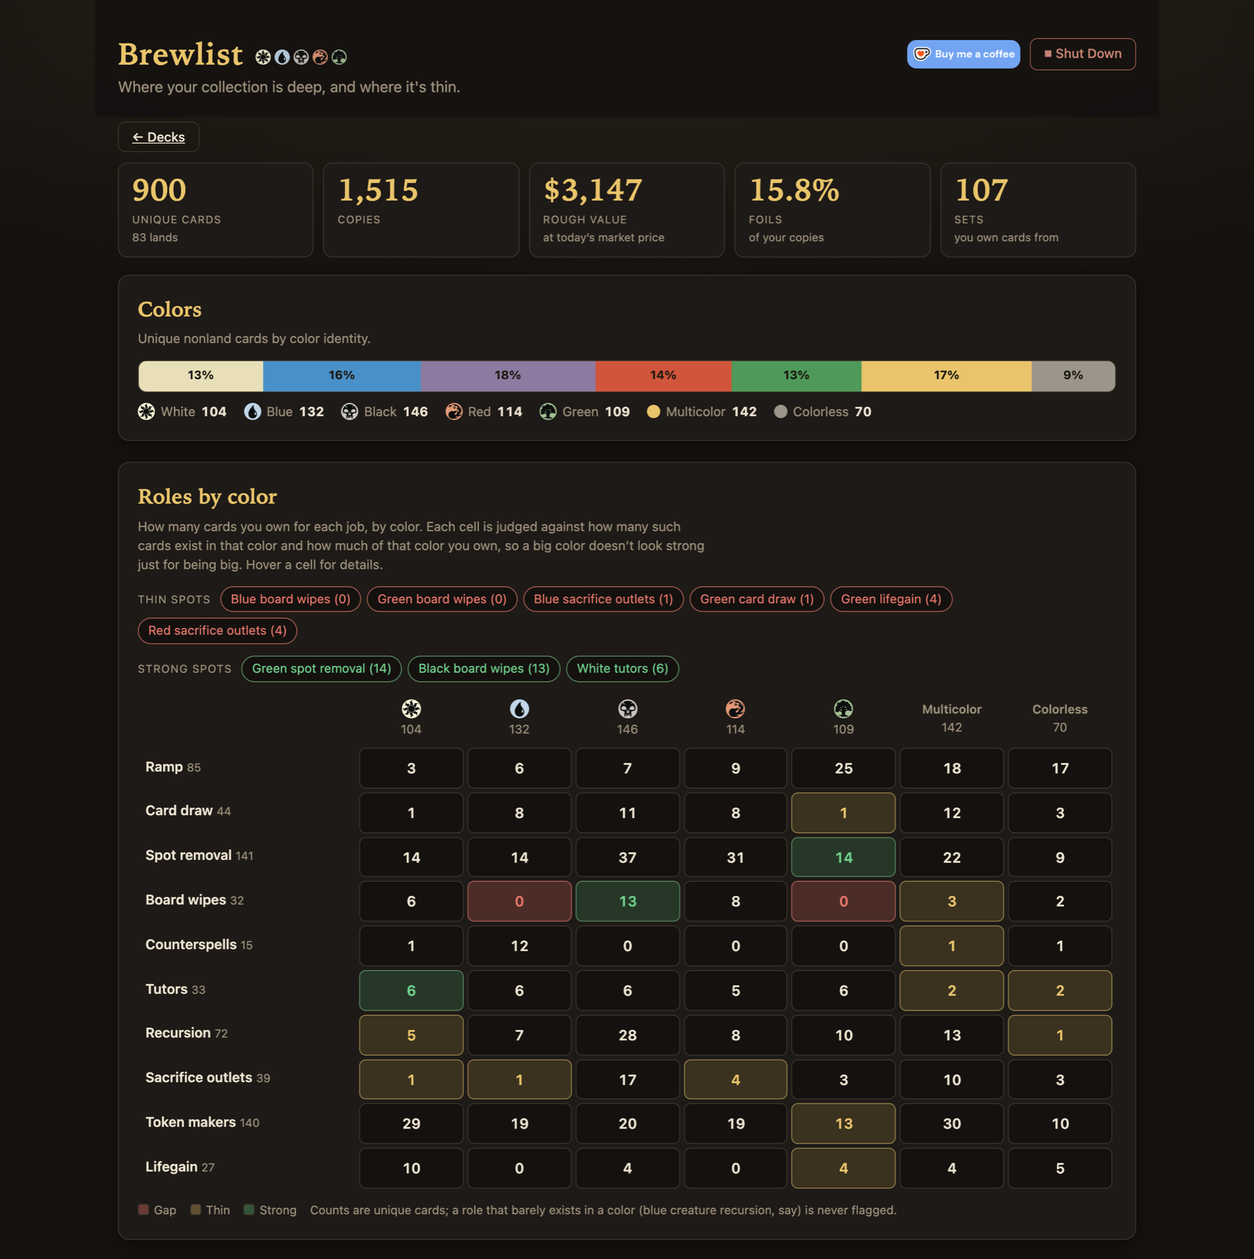
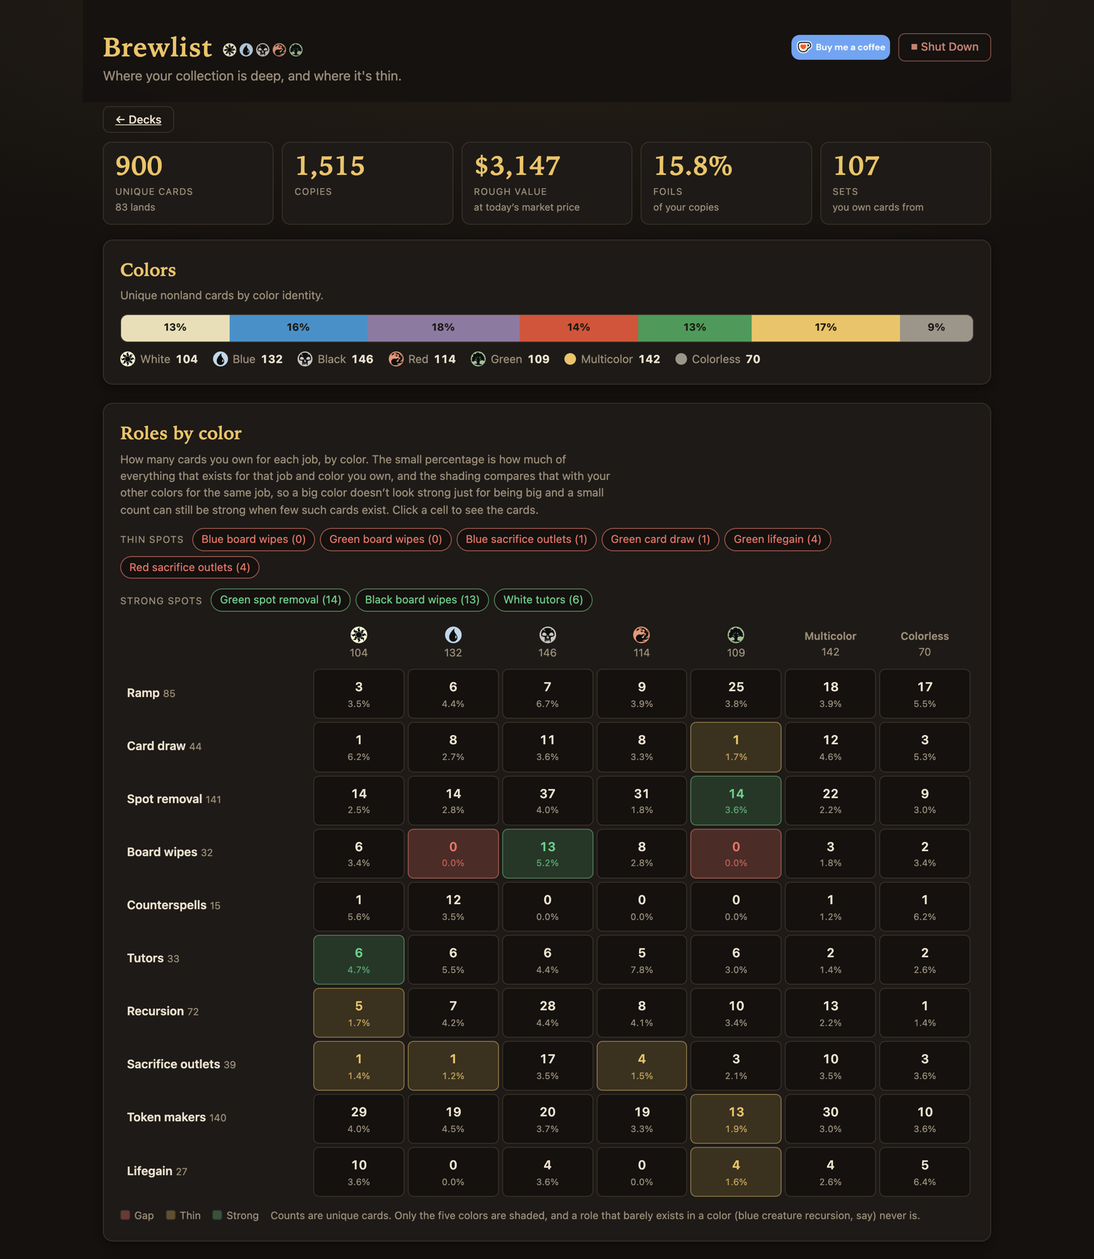
Collection insights: click any number to see the cards behind it; heatmap cells show the share owned, and only the five colors are shaded

diff --git a/collection_page.py b/collection_page.py
@@ -38,6 +38,8 @@ table.ins-grid { border-collapse: separate; border-spacing: 4px; width: 100%; mi
 .ins-grid td.gap { background: color-mix(in srgb, var(--missing) 26%, var(--bg)); border-color: color-mix(in srgb, var(--missing) 60%, var(--card-border)); color: var(--missing); }
 .ins-grid td.thin { background: color-mix(in srgb, var(--gold) 18%, var(--bg)); border-color: color-mix(in srgb, var(--gold) 50%, var(--card-border)); color: var(--gold); }
 .ins-grid td.deep { background: color-mix(in srgb, var(--owned) 20%, var(--bg)); border-color: color-mix(in srgb, var(--owned) 50%, var(--card-border)); color: var(--owned); }
+.ins-grid td .pc { font-weight: 400; font-size: 0.68rem; color: var(--text-dim); margin-top: 1px; }
+.ins-grid td.gap .pc, .ins-grid td.thin .pc, .ins-grid td.deep .pc { color: inherit; opacity: 0.75; }
 .ins-key { display: flex; gap: 14px; flex-wrap: wrap; margin-top: 10px; font-size: 0.78rem; color: var(--text-dim); }
 .ins-key i { display: inline-block; width: 12px; height: 12px; border-radius: 3px; margin-right: 5px; vertical-align: -1px; border: 1px solid var(--card-border); }
 .ins-theme { display: grid; grid-template-columns: minmax(150px, 230px) 1fr 150px; gap: 12px; align-items: center; padding: 7px 0; border-bottom: 1px solid var(--card-border); }
@@ -62,12 +64,44 @@ table.ins-grid { border-collapse: separate; border-spacing: 4px; width: 100%; mi
 .ins-curve .col b { color: var(--text); font-weight: 600; font-variant-numeric: tabular-nums; margin-bottom: 3px; }
 .ins-tribes { display: flex; flex-wrap: wrap; gap: 6px; margin-top: 4px; }
 .ins-note { color: var(--text-dim); font-size: 0.78rem; margin-top: 18px; max-width: 80ch; }
+[data-key] { cursor: pointer; }
+.ins-grid td[data-key]:hover, .ins-chip[data-key]:hover { border-color: var(--accent); filter: brightness(1.25); }
+.ins-theme[data-key]:hover .nm { color: var(--accent); }
+.ins-bars .row[data-key]:hover > span:first-child, .ins-curve .col[data-key]:hover { color: var(--accent); }
+.ins-colorbar > div[data-key]:hover, .ins-legend span[data-key]:hover { filter: brightness(1.15); }
+.ins-legend span[data-key]:hover { color: var(--accent); }
+.ins-modal { display: none; position: fixed; inset: 0; z-index: 300; background: rgba(8, 6, 4, 0.78); align-items: flex-start; justify-content: center; padding: 4vh 16px; overflow-y: auto; }
+.ins-modal.show { display: flex; }
+.ins-modal-panel { background: var(--bg-elevated); border: 1px solid var(--card-border); border-radius: 14px; width: min(1100px, 100%); box-shadow: var(--shadow); }
+.ins-modal-head { display: flex; align-items: center; gap: 12px; padding: 14px 18px; border-bottom: 1px solid var(--card-border); position: sticky; top: 0; background: var(--bg-elevated); border-radius: 14px 14px 0 0; z-index: 2; }
+.ins-modal-head h3 { font-family: var(--serif); font-weight: 600; font-size: 1.3rem; color: var(--accent); margin: 0; flex: 1; }
+.ins-modal-head .count { color: var(--text-dim); font-size: 0.85rem; white-space: nowrap; }
+.ins-modal-head input { width: 190px; margin: 0; padding: 6px 10px; }
+.ins-modal-close { background: none; border: none; color: var(--text-dim); font-size: 1.6rem; line-height: 1; cursor: pointer; }
+.ins-modal-close:hover { color: var(--accent); }
+.ins-cards { display: grid; grid-template-columns: repeat(auto-fill, minmax(150px, 1fr)); gap: 14px; padding: 16px 18px 20px; }
+.ins-card { position: relative; min-width: 0; }
+.ins-card img { width: 100%; aspect-ratio: 5 / 7; border-radius: 6.5%; background: var(--bg); display: block; box-shadow: 0 2px 10px rgba(0,0,0,0.5); }
+.ins-card .nm { font-size: 0.8rem; font-weight: 600; margin-top: 6px; line-height: 1.2; }
+.ins-card .ty { font-size: 0.7rem; color: var(--text-dim); line-height: 1.25; }
+.ins-card .qty { position: absolute; top: 6px; right: 6px; background: rgba(0,0,0,0.78); color: var(--accent); font-weight: 700; font-size: 0.75rem; padding: 1px 7px; border-radius: 999px; }
+.ins-empty { padding: 30px 18px; color: var(--text-dim); text-align: center; }
 @media (max-width: 800px) { .ins-two { grid-template-columns: 1fr; } .ins-theme { grid-template-columns: 1fr; gap: 4px; } .ins-pill { justify-self: start; } }
 """
 
 COLLECTION_BODY = """
   <div class="ins-back"><a href="/decks" class="btn ghost small">&larr; Decks</a></div>
   <div id="insights"><div class="ins-loading">Reading your collection&hellip;</div></div>
+  <div class="ins-modal" id="ins-modal" role="dialog" aria-modal="true" aria-label="Cards">
+    <div class="ins-modal-panel">
+      <div class="ins-modal-head">
+        <h3 id="ins-modal-title"></h3><span class="count" id="ins-modal-count"></span>
+        <input type="text" id="ins-modal-filter" placeholder="Filter these cards&hellip;" autocomplete="off">
+        <button type="button" class="ins-modal-close" id="ins-modal-close" aria-label="Close">&times;</button>
+      </div>
+      <div id="ins-modal-body"></div>
+    </div>
+  </div>
 """
 
 COLLECTION_SCRIPT = r"""
@@ -91,8 +125,8 @@ function snapshotHtml(s) {
 function colorsHtml(c) {
   const total = c.nonland_total || 1;
   const segs = c.columns.filter((x) => x.unique > 0).map((x) =>
-    '<div style="flex:' + x.unique + ';background:' + MANA_HEX[x.key] + ';" title="' + x.label + ': ' + fmt(x.unique) + '">' + (x.unique / total >= 0.06 ? Math.round(100 * x.unique / total) + '%' : '') + '</div>').join('');
-  const legend = c.columns.map((x) => '<span>' + (icon(x.key) || '<i style="display:inline-block;width:14px;height:14px;border-radius:50%;background:' + MANA_HEX[x.key] + ';"></i>') + x.label + ' <b>' + fmt(x.unique) + '</b></span>').join('');
+    '<div data-key="color:' + x.key + '" data-title="' + x.label + ' cards" style="flex:' + x.unique + ';background:' + MANA_HEX[x.key] + ';" title="' + x.label + ': ' + fmt(x.unique) + ' (click to see them)">' + (x.unique / total >= 0.06 ? Math.round(100 * x.unique / total) + '%' : '') + '</div>').join('');
+  const legend = c.columns.map((x) => '<span data-key="color:' + x.key + '" data-title="' + x.label + ' cards">' + (icon(x.key) || '<i style="display:inline-block;width:14px;height:14px;border-radius:50%;background:' + MANA_HEX[x.key] + ';"></i>') + x.label + ' <b>' + fmt(x.unique) + '</b></span>').join('');
   return '<div class="card ins-section"><h2>Colors</h2><p class="ins-sub">Unique nonland cards by color identity.</p><div class="ins-colorbar">' + segs + '</div><div class="ins-legend">' + legend + '</div></div>';
 }
 
@@ -112,21 +146,23 @@ function rolesHtml(r) {
     const cell = row.cells[c.key];
     const tip = colName[c.key] + ' ' + row.role.toLowerCase() + ': you own ' + cell.n + ' of ' + fmt(cell.pool) + ' Commander-legal cards'
       + (cell.index != null ? ' (' + cell.index.toFixed(2) + '× your usual share for this color)' : '') + (cell.names.length ? '. Most played: ' + cell.names.slice(0, 8).join(', ') : '');
-    return '<td class="' + (cell.flag || '') + '" title="' + esc(tip) + '">' + cell.n + '</td>';
+    const key = cell.n ? ' data-key="role:' + esc(row.role) + ':' + c.key + '" data-title="' + esc(colName[c.key] + ' ' + row.role.toLowerCase()) + '"' : '';
+    const pc = cell.pct == null ? '' : '<div class="pc">' + (cell.pct >= 10 ? Math.round(cell.pct) : cell.pct.toFixed(1)) + '%</div>';
+    return '<td class="' + (cell.flag || '') + '"' + key + ' title="' + esc(tip + (cell.n ? ' \u2014 click to see them' : '')) + '">' + cell.n + pc + '</td>';
   }).join('') + '</tr>').join('');
   return '<div class="card ins-section"><h2>Roles by color</h2>'
-    + '<p class="ins-sub">How many cards you own for each job, by color. Each cell is judged against how many such cards exist in that color and how much of that color you own, so a big color doesn’t look strong just for being big. Hover a cell for details.</p>'
+    + '<p class="ins-sub">How many cards you own for each job, by color. The small percentage is how much of everything that exists for that job and color you own, and the shading compares that with your other colors for the same job, so a big color doesn’t look strong just for being big and a small count can still be strong when few such cards exist. Click a cell to see the cards.</p>'
     + (thin.length ? '<div class="ins-chips"><span class="lbl">Thin spots</span>' + thin.map((f) => chip(f, 'bad')).join('') + '</div>' : '')
     + (deep.length ? '<div class="ins-chips"><span class="lbl">Strong spots</span>' + deep.map((f) => chip(f, 'good')).join('') + '</div>' : '')
     + '<div class="ins-table-wrap"><table class="ins-grid">' + head + body + '</table></div>'
-    + '<div class="ins-key"><span><i style="background:color-mix(in srgb, var(--missing) 40%, var(--bg));"></i>Gap</span><span><i style="background:color-mix(in srgb, var(--gold) 35%, var(--bg));"></i>Thin</span><span><i style="background:color-mix(in srgb, var(--owned) 35%, var(--bg));"></i>Strong</span><span>Counts are unique cards; a role that barely exists in a color (blue creature recursion, say) is never flagged.</span></div></div>';
+    + '<div class="ins-key"><span><i style="background:color-mix(in srgb, var(--missing) 40%, var(--bg));"></i>Gap</span><span><i style="background:color-mix(in srgb, var(--gold) 35%, var(--bg));"></i>Thin</span><span><i style="background:color-mix(in srgb, var(--owned) 35%, var(--bg));"></i>Strong</span><span>Counts are unique cards. Only the five colors are shaded, and a role that barely exists in a color (blue creature recursion, say) never is.</span></div></div>';
 }
 
 function themesHtml(themes) {
   const rows = themes.map((t) => {
     const pct = Math.min(100, (t.index / 2) * 100);
     const label = t.level === 'deep' ? 'Deep' : (t.level === 'thin' ? 'Thin' : 'Typical');
-    return '<div class="ins-theme ' + t.level + '" title="' + esc(t.examples.length ? 'Most played of yours: ' + t.examples.join(', ') : '') + '">'
+    return '<div class="ins-theme ' + t.level + '" data-key="theme:' + esc(t.name) + '" data-title="' + esc(t.name) + '" title="' + esc(t.examples.length ? 'Most played of yours: ' + t.examples.join(', ') : '') + '">'
       + '<div class="nm">' + esc(t.name) + '<small>' + fmt(t.owned) + ' of ' + fmt(t.pool) + ' (' + t.share + '%)</small></div>'
       + '<div class="ins-meter"><div class="fill" style="width:' + pct + '%;"></div><div class="mid" style="left:50%;" title="A typical theme for you"></div></div>'
       + '<div class="ins-pill">' + label + ' &middot; ' + t.index.toFixed(1) + '×</div></div>';
@@ -138,14 +174,57 @@ function themesHtml(themes) {
 
 function typesHtml(t) {
   const maxU = Math.max(...t.by_category.map((x) => x.unique), 1);
-  const cats = t.by_category.map((x) => '<div class="row"><span>' + esc(x.type) + '</span><div><div class="bar" style="width:' + (100 * x.unique / maxU) + '%;"></div></div><span class="num">' + fmt(x.unique) + '</span></div>').join('');
+  const cats = t.by_category.map((x) => '<div class="row" data-key="type:' + esc(x.type) + '" data-title="' + esc(x.type) + '"><span>' + esc(x.type) + '</span><div><div class="bar" style="width:' + (100 * x.unique / maxU) + '%;"></div></div><span class="num">' + fmt(x.unique) + '</span></div>').join('');
   const maxC = Math.max(...t.curve, 1);
-  const curve = t.curve.map((n, i) => '<div class="col"><b>' + n + '</b><div class="bar" style="height:' + Math.max(2, 100 * n / maxC * 0.78) + '%;"></div>' + (i === 7 ? '7+' : i) + '</div>').join('');
-  const tribes = t.tribes.map((x) => '<span class="ins-chip">' + esc(x.type) + ' <b>' + x.n + '</b></span>').join('');
+  const curve = t.curve.map((n, i) => '<div class="col" data-key="cmc:' + i + '" data-title="Mana value ' + (i === 7 ? '7+' : i) + '"><b>' + n + '</b><div class="bar" style="height:' + Math.max(2, 100 * n / maxC * 0.78) + '%;"></div>' + (i === 7 ? '7+' : i) + '</div>').join('');
+  const tribes = t.tribes.map((x) => '<span class="ins-chip" data-key="tribe:' + esc(x.type) + '" data-title="' + esc(x.type) + ' creatures">' + esc(x.type) + ' <b>' + x.n + '</b></span>').join('');
   return '<div class="ins-two"><div class="card ins-section"><h2>Card types</h2><p class="ins-sub">Unique cards of each type.</p><div class="ins-bars">' + cats + '</div></div>'
     + '<div class="card ins-section"><h2>Mana curve</h2><p class="ins-sub">Nonland cards by mana value (average ' + t.avg_cmc + ').</p><div class="ins-curve">' + curve + '</div></div></div>'
     + '<div class="card ins-section"><h2>Creature types</h2><p class="ins-sub">Your deepest tribes, by unique creatures.</p><div class="ins-tribes">' + tribes + '</div></div>';
 }
+
+// ---- the cards behind a number ----
+const modal = document.getElementById('ins-modal');
+const modalBody = document.getElementById('ins-modal-body');
+const modalFilter = document.getElementById('ins-modal-filter');
+let modalCards = [], modalSeq = 0;
+const cardImg = (id) => id ? 'https://cards.scryfall.io/normal/front/' + id[0] + '/' + id[1] + '/' + id + '.jpg' : '';
+function renderModalCards() {
+  const q = modalFilter.value.trim().toLowerCase();
+  const shown = q ? modalCards.filter((c) => (c.name + ' ' + (c.type_line || '')).toLowerCase().includes(q)) : modalCards;
+  const copies = shown.reduce((n, c) => n + (c.quantity || 1), 0);
+  document.getElementById('ins-modal-count').textContent = shown.length + (shown.length === 1 ? ' card' : ' cards') + (copies !== shown.length ? ' \u00b7 ' + copies + ' copies' : '');
+  modalBody.innerHTML = shown.length
+    ? '<div class="ins-cards">' + shown.map((c) => '<div class="ins-card" title="' + esc(c.name) + '">'
+        + (c.scryfall_id ? '<img loading="lazy" alt="' + esc(c.name) + '" src="' + cardImg(c.scryfall_id) + '">' : '<div style="aspect-ratio:5/7;border-radius:6%;background:var(--bg);"></div>')
+        + ((c.quantity || 1) > 1 ? '<span class="qty">\u00d7' + c.quantity + '</span>' : '')
+        + '<div class="nm">' + esc(c.name) + (c.foil ? ' \u2726' : '') + '</div><div class="ty">' + esc(c.type_line || '') + '</div></div>').join('') + '</div>'
+    : '<div class="ins-empty">No cards match.</div>';
+}
+function openList(key, title) {
+  const mine = ++modalSeq;
+  document.getElementById('ins-modal-title').textContent = title;
+  document.getElementById('ins-modal-count').textContent = '';
+  modalFilter.value = '';
+  modalBody.innerHTML = '<div class="ins-empty">Loading\u2026</div>';
+  modal.classList.add('show');
+  document.body.style.overflow = 'hidden';
+  fetch('/collection/cards?key=' + encodeURIComponent(key)).then((r) => r.json()).then((d) => {
+    if (mine !== modalSeq) return;
+    if (d.error) { modalBody.innerHTML = '<div class="ins-empty">' + esc(d.error) + '</div>'; return; }
+    modalCards = d.cards;
+    renderModalCards();
+  }).catch(() => { if (mine === modalSeq) modalBody.innerHTML = '<div class="ins-empty">Could not reach the server.</div>'; });
+}
+function closeList() { modalSeq++; modal.classList.remove('show'); document.body.style.overflow = ''; }
+document.getElementById('ins-modal-close').addEventListener('click', closeList);
+modal.addEventListener('click', (e) => { if (e.target === modal) closeList(); });
+document.addEventListener('keydown', (e) => { if (e.key === 'Escape' && modal.classList.contains('show')) closeList(); });
+modalFilter.addEventListener('input', renderModalCards);
+document.getElementById('insights').addEventListener('click', (e) => {
+  const el = e.target.closest('[data-key]');
+  if (el) openList(el.dataset.key, el.dataset.title || 'Cards');
+});
 
 fetch('/collection/data').then((r) => r.json()).then((d) => {
   const el = document.getElementById('insights');

diff --git a/collection_insights.py b/collection_insights.py
@@ -127,6 +127,15 @@ def _pool_members(defn: dict, pool: list[dict], groups: dict, labels: dict) -> s
     return members
 
 
+def _card(r: dict) -> dict:
+    return {"name": r["name"], "scryfall_id": r.get("scryfall_id"), "type_line": r.get("type_line"), "mana_cost": r.get("mana_cost"),
+            "quantity": r.get("quantity") or 1, "set_code": r.get("set_code"), "foil": bool(r.get("foil")), "layout": r.get("layout")}
+
+
+def _sorted_cards(rows: list[dict]) -> list[dict]:
+    return [_card(r) for r in sorted(rows, key=lambda r: (r.get("edhrec_rank") or 10**9, r["name"]))]
+
+
 def _creature_types(type_line: str) -> list[str]:
     if "Creature" not in (type_line or "") or "—" not in type_line:
         return []
@@ -178,9 +187,15 @@ def build_insights(owned: dict, owned_rows: list[dict]) -> dict:
     baseline = len(mine) / max(1, len(pool))
 
     # ---- colors ---------------------------------------------------------------------------------------------
+    lists: dict[str, list[dict]] = {}  # the cards behind every number, looked up by key when something is clicked
     col_totals = {c: 0 for c in COLUMNS}
+    by_color: dict[str, list[dict]] = {c: [] for c in COLUMNS}
     for r in mine:
-        col_totals[_color_bucket(r.get("color_identity"))] += 1
+        b = _color_bucket(r.get("color_identity"))
+        col_totals[b] += 1
+        by_color[b].append(r)
+    for c in COLUMNS:
+        lists[f"color:{c}"] = _sorted_cards(by_color[c])
     colors = {"columns": [{"key": c, "label": COLOR_NAMES[c], "unique": col_totals[c]} for c in COLUMNS], "nonland_total": len(mine)}
 
     # ---- roles x colors ---------------------------------------------------------------------------------------
@@ -218,7 +233,9 @@ def build_insights(owned: dict, owned_rows: list[dict]) -> dict:
             pool_n = pool_hits[c]
             index = (n / pool_n) / (col_baseline[c] * role_lift) if pool_n and col_baseline[c] and role_lift else None
             flag = None
-            if index is not None and pool_n >= 30:  # a role that barely exists in this color isn't a gap
+            # Only the five colors are flagged: Multicolor and Colorless each mix many kinds of cards, and their small
+            # pools made the flags noisy (a "strong" colorless cell next to a bigger count in black read as a bug).
+            if index is not None and pool_n >= 30 and c in COLOR_ORDER:  # a role that barely exists in a color isn't a gap
                 if index < 0.35:
                     flag = "gap"
                 elif index < 0.7:
@@ -226,7 +243,9 @@ def build_insights(owned: dict, owned_rows: list[dict]) -> dict:
                 elif index > 1.4 and n >= 6:
                     flag = "deep"
             top = sorted(hits[c], key=lambda r: (r.get("edhrec_rank") or 10**9))[:12]
-            cells[c] = {"n": n, "pool": pool_n, "index": round(index, 2) if index is not None else None, "flag": flag,
+            lists[f"role:{role}:{c}"] = _sorted_cards(hits[c])
+            cells[c] = {"n": n, "pool": pool_n, "pct": round(100 * n / pool_n, 1) if pool_n else None,
+                        "index": round(index, 2) if index is not None else None, "flag": flag,
                         "names": [r["name"] for r in top]}
         role_rows.append({"role": role, "total": total, "cells": cells})
     roles = {"columns": [{"key": c, "label": COLOR_NAMES[c], "total": col_totals[c]} for c in COLUMNS], "rows": role_rows}
@@ -243,6 +262,7 @@ def build_insights(owned: dict, owned_rows: list[dict]) -> dict:
         index = share / baseline if baseline else 0
         level = "deep" if index >= 1.25 else ("thin" if index < 0.75 else "average")
         top = sorted(owned_hits, key=lambda r: (r.get("edhrec_rank") or 10**9))[:8]
+        lists[f"theme:{name}"] = _sorted_cards(owned_hits)
         themes.append({"name": name, "owned": len(owned_hits), "pool": pool_n, "share": round(share * 100, 1),
                        "index": round(index, 2), "level": level, "examples": [r["name"] for r in top]})
     # Theme cards are also the better-known ones, so every theme tends to read "deep"; judge each against the middle theme.
@@ -262,13 +282,27 @@ def build_insights(owned: dict, owned_rows: list[dict]) -> dict:
     curve = [0] * 8
     cmc_sum = cmc_n = 0
     tribes: dict[str, int] = {}
+    curve_rows: dict[int, list[dict]] = {i: [] for i in range(8)}
+    tribe_rows: dict[str, list[dict]] = {}
     for r in mine:
         c = int(r.get("cmc") or 0)
         curve[min(c, 7)] += 1
+        curve_rows[min(c, 7)].append(r)
         cmc_sum += float(r.get("cmc") or 0)
         cmc_n += 1
         for t in _creature_types(r.get("type_line")):
             tribes[t] = tribes.get(t, 0) + 1
+            tribe_rows.setdefault(t, []).append(r)
+    cat_rows: dict[str, list[dict]] = {}
+    for r in owned_rows:
+        cat_rows.setdefault(r.get("category") or "Other", []).append(r)
+    for k, rows in cat_rows.items():
+        lists[f"type:{k}"] = _sorted_cards(rows)
+    for i, rows in curve_rows.items():
+        lists[f"cmc:{i}"] = _sorted_cards(rows)
+    for k, rows in tribe_rows.items():
+        if tribes[k] >= 3:
+            lists[f"tribe:{k}"] = _sorted_cards(rows)
     types = {
         "by_category": [{"type": k, **v} for k, v in sorted(by_cat.items(), key=lambda kv: -kv[1]["unique"])],
         "curve": curve,
@@ -277,7 +311,7 @@ def build_insights(owned: dict, owned_rows: list[dict]) -> dict:
     }
 
     return {"snapshot": snapshot, "colors": colors, "roles": roles, "themes": themes, "types": types,
-            "baseline_pct": round(baseline * 100, 1), "pool_size": len(pool)}
+            "baseline_pct": round(baseline * 100, 1), "pool_size": len(pool), "_lists": lists}
 
 
 def get_insights(collection_path: str, collection_mtime: float, load_owned, owned_view) -> dict:
@@ -290,5 +324,11 @@ def get_insights(collection_path: str, collection_mtime: float, load_owned, owne
     owned = load_owned(collection_path)
     data = build_insights(owned, owned_view(owned, gp))
     data["seconds"] = round(time.time() - t, 1)
-    _cache.update(key=key, data=data)
+    _cache.update(key=key, lists=data.pop("_lists"), data=data)
     return data
+
+
+def cards_for(key: str) -> list[dict] | None:
+    """The cards behind a number on the page ("role:Tutors:R", "theme:Tokens", "color:B", "type:Creatures", "cmc:3",
+    "tribe:Elf"), or None for an unknown key. Only valid after get_insights has run."""
+    return (_cache.get("lists") or {}).get(key)

diff --git a/app.py b/app.py
@@ -87,7 +87,7 @@ from deck_builder import (
 import tag_synergy
 from edhrec_data import bulk_commander_popularity, commander_data_problem, commander_profile, commander_theme_page
 from edhrec_data import refresh_all as edhrec_refresh_all
-from collection_insights import get_insights
+from collection_insights import get_insights, cards_for
 from collection_page import render_collection_page
 from edhrec_data import top_list_status as edhrec_top_list_status
 
@@ -5862,6 +5862,21 @@ def collection_insights_data():
         return jsonify(get_insights(COLLECTION_PATH, os.path.getmtime(COLLECTION_PATH), load_collection, owned_collection_gameplay_view))
     except ValueError as e:
         return jsonify(error=str(e))
+
+
+@app.route("/collection/cards", methods=["GET"])
+def collection_insights_cards():
+    """The cards behind one number on the insights page (a role cell, theme, color, type...)."""
+    if not os.path.isfile(COLLECTION_PATH):
+        return jsonify(error="No ManaBox collection on file yet."), 400
+    try:
+        get_insights(COLLECTION_PATH, os.path.getmtime(COLLECTION_PATH), load_collection, owned_collection_gameplay_view)
+    except ValueError as e:
+        return jsonify(error=str(e)), 400
+    cards = cards_for(request.args.get("key", ""))
+    if cards is None:
+        return jsonify(error="Nothing to show for that."), 404
+    return jsonify(cards=cards)
 
 
 @app.route("/collection/upload", methods=["POST"])

diff --git a/README.md b/README.md
@@ -159,12 +159,19 @@ card database and Scryfall's Oracle Tags.
   your unique nonland cards by color identity
 - **Roles by color:** a grid of ramp, card draw, spot removal, board wipes,
   counterspells, tutors, recursion, sacrifice outlets, token makers and
-  lifegain against each color. Cells are flagged **gap**, **thin** or
-  **strong** against how many such cards exist in that color and how much of
-  that color you own, so a big color doesn't look strong just for being big.
-  Hover a cell for how many exist and the most-played ones you own
+  lifegain against each color. Each cell shows your count and the share of all
+  such cards that exist in that color, and the five colors are shaded **gap**,
+  **thin** or **strong** against your other colors for the same job, so a big
+  color doesn't look strong just for being big
 
 ![Collection insights: snapshot, colors and the role-by-color grid](screenshots/collection-insights.png)
+
+- **Click any number to see the cards:** a role cell, a theme, a color, a card
+  type, a curve bar or a creature type opens a card view of exactly those
+  cards, with a filter box (click the white tutors cell and you get your white
+  tutors)
+
+![Clicking a cell shows the cards behind it](screenshots/collection-cards.png)
 
 - **Themes:** graveyard, sacrifice, tokens, +1/+1 counters, landfall,
   spellslinger and more, each showing how much of that plan's cards you own
